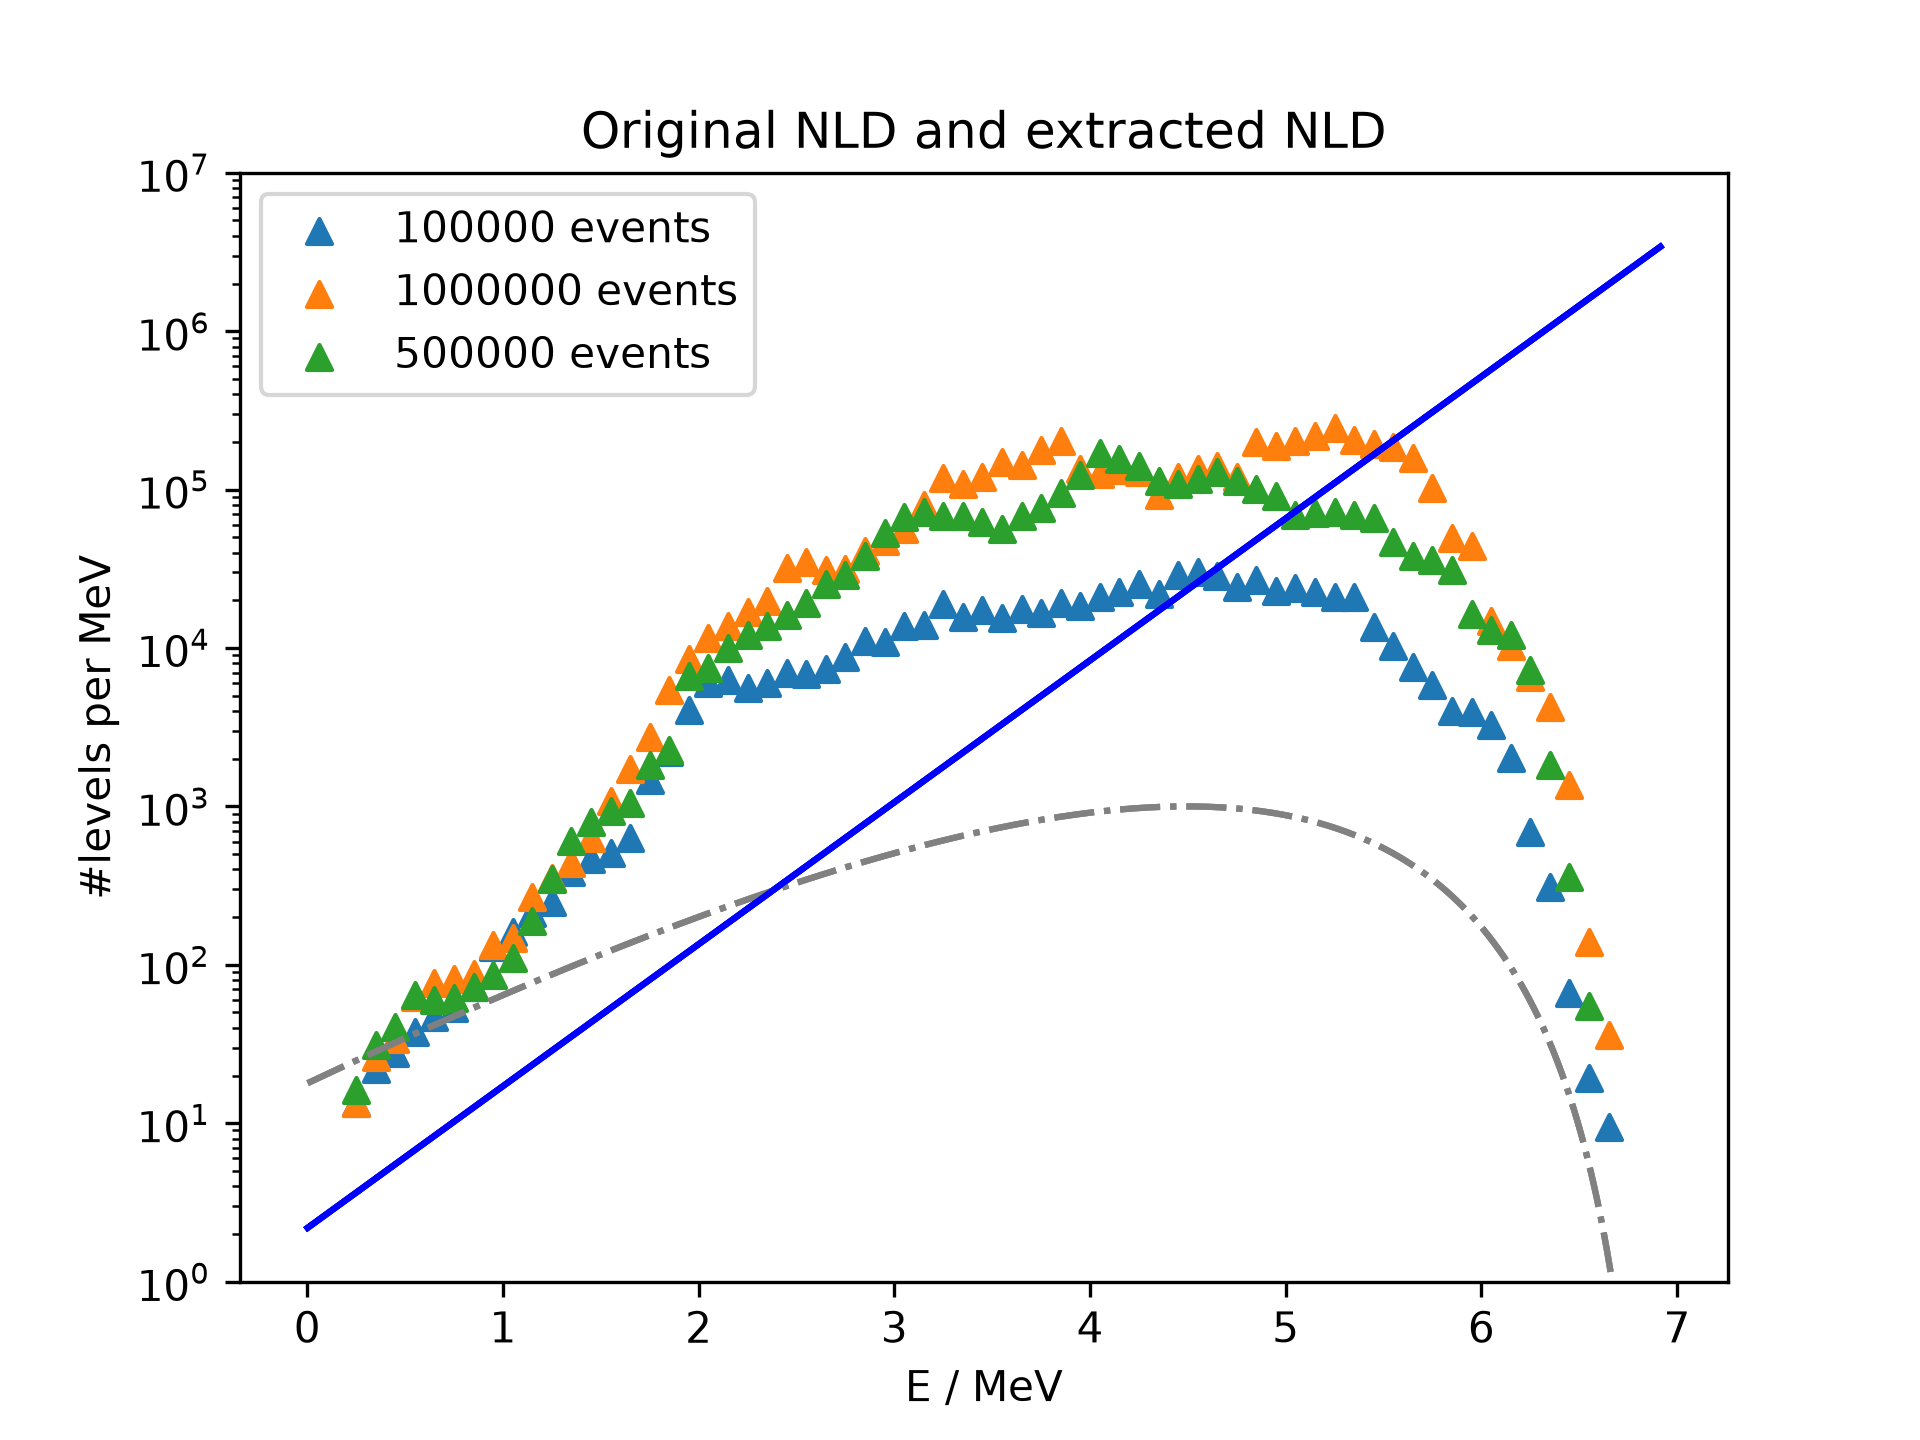
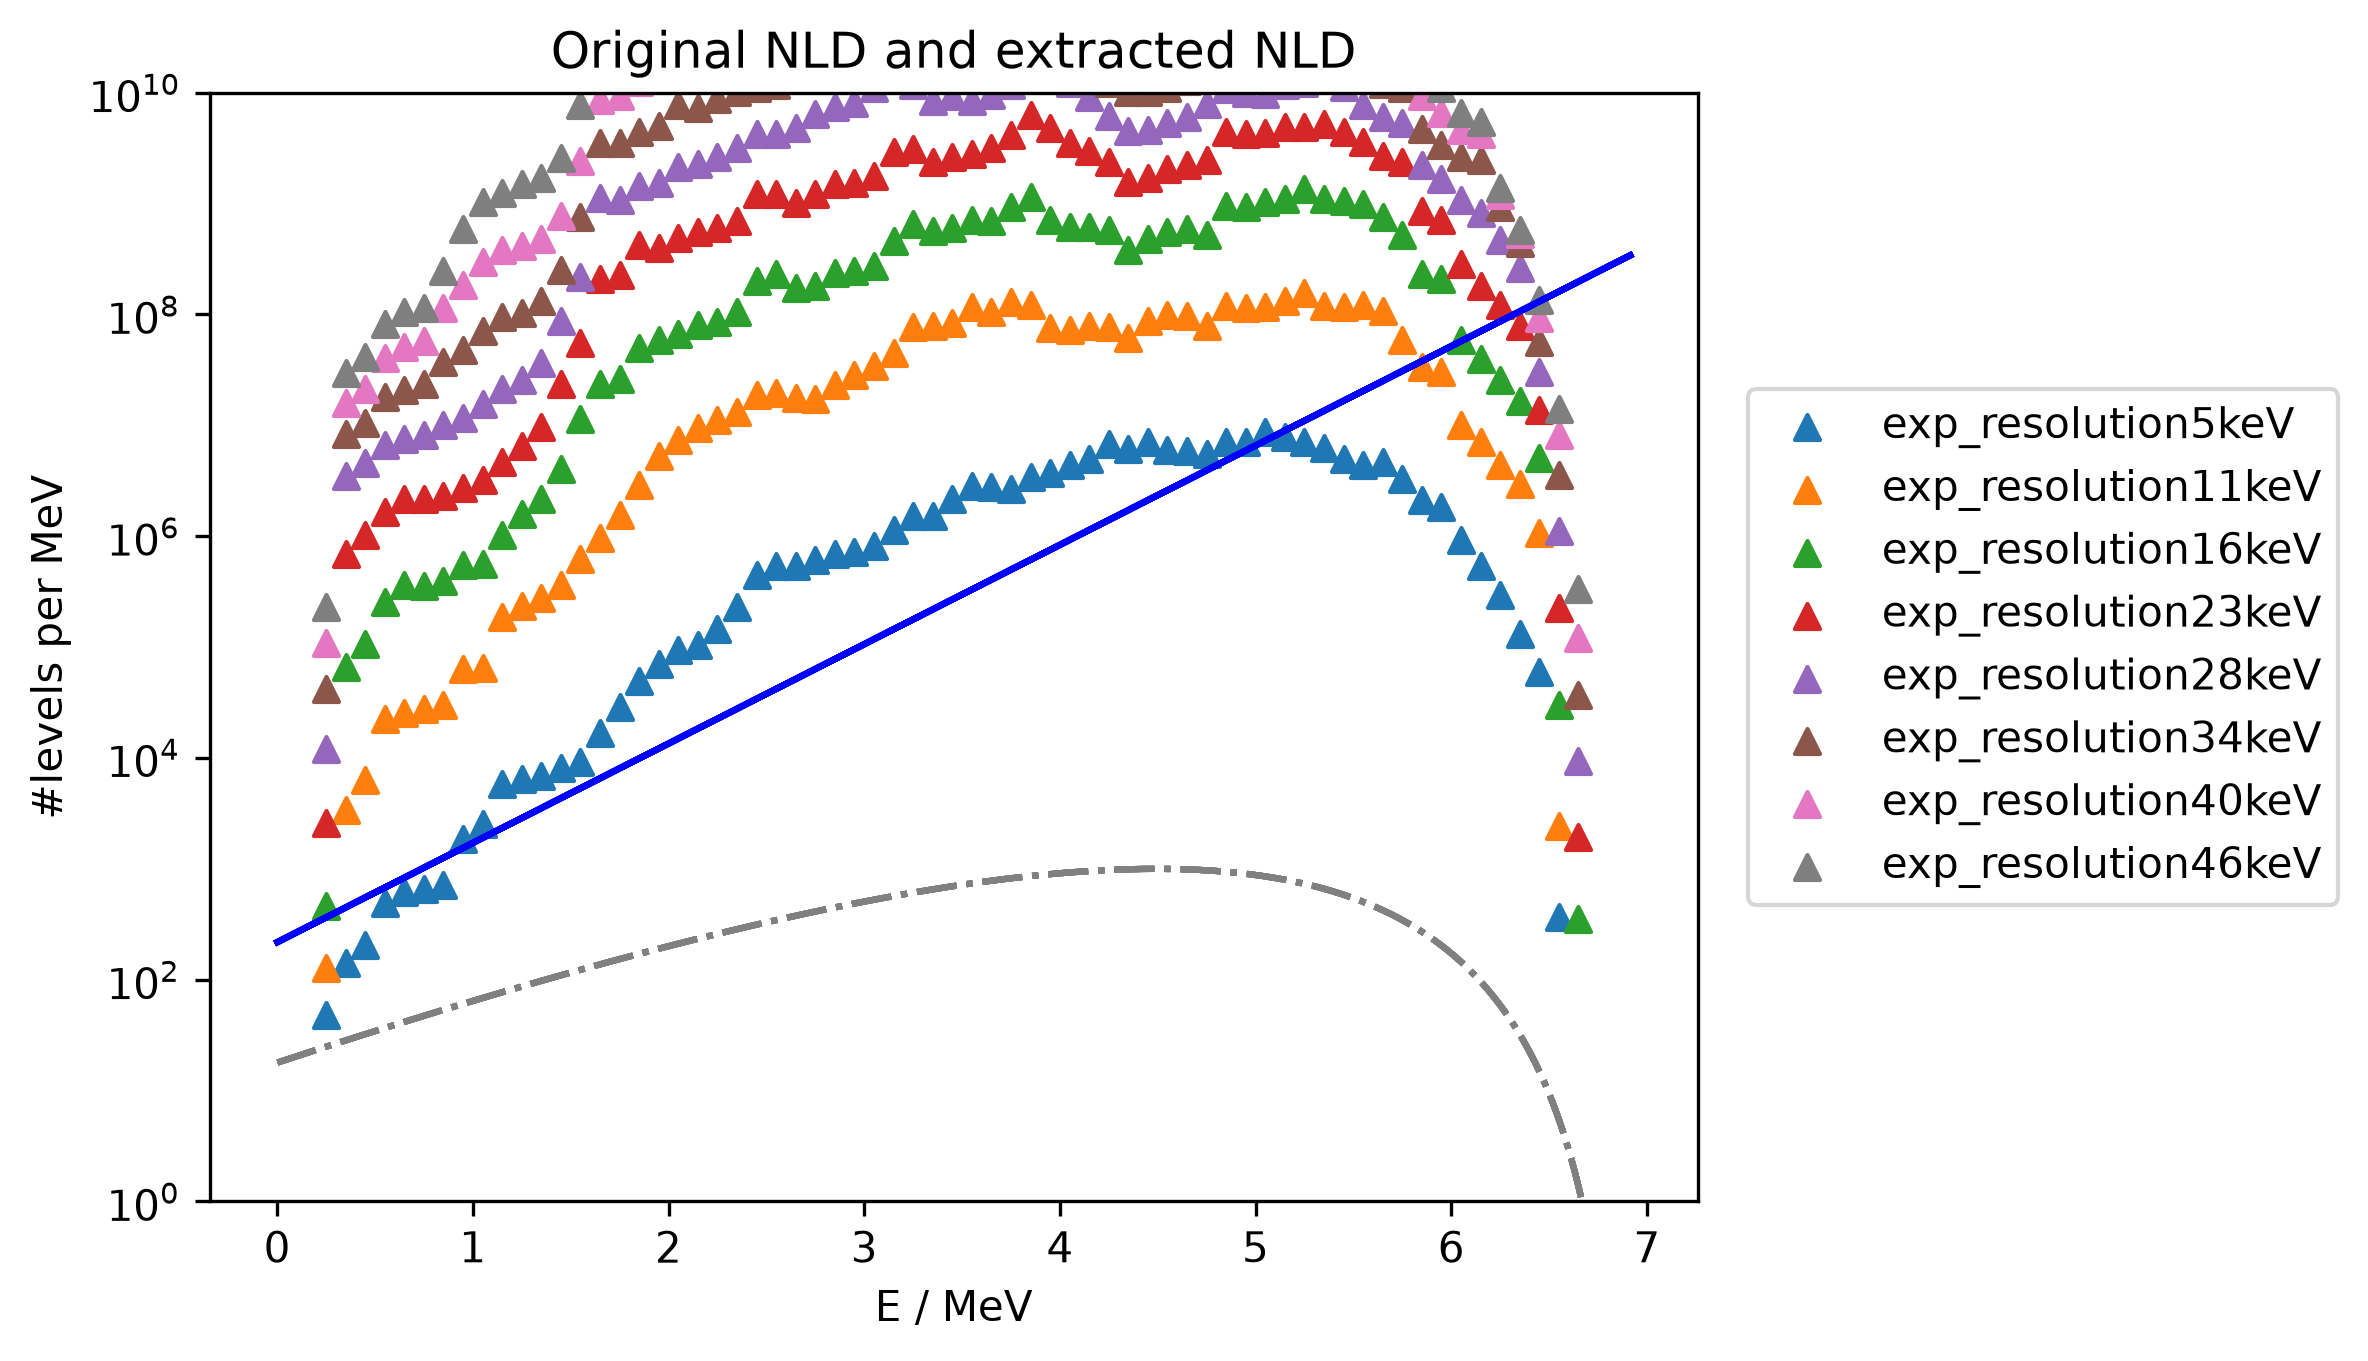
added analysis iterator

diff --git a/Analysis.py b/Analysis.py
@@ -40,12 +40,9 @@ class FluctuationAnalysisPlot:
             fluct_data: list,
             *,
             show_full: bool = False,
-            run: Run = None
+            run: Run = None,
+            label: str = ""
             ) -> None:
-        if run is not None:
-            label = str(int(run.settings[Setting.g_nEvent]))+" events"
-        else:
-            label = ""
         plt.step(energy, fluct_data, lw=self.linewidth, label=label)
         if run is not None:
             energy, data = extract.get_fluct_data(run)
@@ -65,12 +62,9 @@ class FluctuationAnalysisPlot:
             fine: list,
             rough: list,
             *,
-            run: Run = None
+            run: Run = None,
+            label: str = ""
             ) -> None:
-        if run is not None:
-            label = str(int(run.settings[Setting.g_nEvent]))+" events"
-        else:
-            label = ""
         plt.plot(energy, fluct_data, label=label)
         plt.plot(energy, fine)
         plt.plot(energy, rough)
@@ -84,16 +78,13 @@ class FluctuationAnalysisPlot:
             energy: list,
             stationary: list,
             *,
-            run: Run = None
+            run: Run = None,
+            label: str = ""
             ) -> None:
         plt.xlabel("E in MeV")
         plt.ylabel("'relative fluctuations'")
         plt.title("Stationary spectrum")
         plt.ylim(0.5,1.5)
-        if run is not None:
-            label = str(int(run.settings[Setting.g_nEvent]))+" events"
-        else:
-            label = ""
         plt.plot(energy, stationary, label=label)
         plt.legend()
 
@@ -125,31 +116,24 @@ class FluctuationAnalysisPlot:
             data_energy: list,
             *,
             run: Run = None,
-            name: str = ""
+            label: str = ""
             ) -> None:
-        if run is not None:
-            label = str(int(run.settings[Setting.g_nEvent]))+" events"
-        else:
-            label = ""
         self.pop_dist_comp(run, data_energy, nld)
-        plt.plot(data_energy, [func.rho(e) for e in data_energy], color="blue")
-        plt.ylim(1,1e7)
+        plt.plot(data_energy, [func.rho(e) * 10*10 for e in data_energy], color="blue")
         plt.scatter(energy_range, nld, marker="^", label=label)
-        plt.legend()
+        plt.ylim(1,1e10)
+        plt.legend(loc="center left",bbox_to_anchor=(1.02, 0.5))
         plt.yscale("log")
         plt.title("Original NLD and extracted NLD")
         plt.xlabel("E / MeV")
         plt.ylabel("#levels per MeV")
-
-    
-        
 
     def helper_seriesplot(
             self,
             fa: FluctuationAnalysisResult,
             fa_step: FaStep,
             *,
-            file_name: str = "unnamed_fluc_ana",
+            label: str = "no label",
             run: Run = None
             ) -> None:
         fluct_energy = fa.fluct_energy
@@ -161,15 +145,15 @@ class FluctuationAnalysisPlot:
         extract_nld = fa.nld
         match fa_step:
             case FaStep.fluct:
-                self.fluct_data(fluct_energy, fluct_data, run=run)
+                self.fluct_data(fluct_energy, fluct_data, run=run, label=label)
             case FaStep.smoothing:
-                self.smooth(fluct_energy, fluct_data, fine, rough, run=run)
+                self.smooth(fluct_energy, fluct_data, fine, rough, run=run, label=label)
             case FaStep.stationary:
-                self.stationary(fluct_energy, stationary, run=run)
+                self.stationary(fluct_energy, stationary, run=run, label=label)
             case FaStep.autocorr:
                 pass
             case FaStep.comparison:
-                self.comparison(energy_range, extract_nld, fluct_energy, run=run)
+                self.comparison(energy_range, extract_nld, fluct_energy, run=run, label=label)
 
     def init_folders(self) -> None:
         (Settings.std_path/Settings.folder_fluct_name).mkdir(exist_ok=True, parents=True)
@@ -181,32 +165,89 @@ class FluctuationAnalysisPlot:
     def create(
         self,
         runs: list[Run],
+        iter_setting: Setting,
         *,
-        exp_res: float = 0.0,
         figsize: tuple[float, float] = None,
         ) -> None:
         self.init_folders()
-        fa_list = []
-        for run in runs:
-            fa = fluc.fluctuation_analysis(run, exp_res = exp_res)
+        run_fa = [fluc.fluctuation_analysis(run) for run in runs]
+        for k in range(len(runs)):
+            run = runs[k]
+            fa = run_fa[k]
             for step in FaStep:
                 plt.figure()
-                self.helper_seriesplot(fa, step, file_name=str(int(run.settings[Setting.g_nEvent])), run=run)
-                plt.savefig(Settings.std_path / FluctuationAnalysis.fa_step_to_folder_name[step] / (str(int(run.settings[Setting.g_nEvent]))+".png"), dpi = 300)
+                self.helper_seriesplot(fa, step, file_name=str(int(run.settings[iter_setting])), run=run)
+                plt.savefig(
+                    Settings.std_path / FluctuationAnalysis.fa_step_to_folder_name[step] / (str(int(run.settings[Setting.g_nEvent]))+".png"),
+                    dpi = 300,
+                    bbox_inches = "tight")
                 plt.close()
+        if len(runs) > 1:
+            for step in FaStep:
+                plt.figure()
+                for k in range(len(runs)):
+                    run = runs[k]
+                    fa = run_fa[k]
+                    self.helper_seriesplot(fa, step, file_name="combined", run=run)
+                plt.savefig(
+                    Settings.std_path / FluctuationAnalysis.fa_step_to_folder_name[step] / ("combined"+".png"),
+                    dpi = 300,
+                    bbox_inches = "tight")
+                plt.close()
+
+    def from_val_get_valid_file_name(self, val: float):
+        pass
+
+    def label(self, iter_setting: Setting, value: Any):
+        if isinstance(value, int):
+            modified = value
+        elif isinstance(value, float):
+            modified = str(int(value*1e3))+"keV"
+        else:
+            print("cant find label for that value type")
+        return iter_setting.name+modified
+
+    def iter_analysis_param(
+            self,
+            run: Run,
+            iter_setting: Setting,
+            iter_range: list,
+            *,
+            plot_single: bool = False
+            ) -> None:
+        self.init_folders()
+        if plot_single:
+            for param in iter_range:
+                param0 = parameter[iter_setting]
+                parameter[iter_setting] = param
+                fa = fluc.fluctuation_analysis(run)
+                for step in FaStep:
+                    plt.figure()
+                    self.helper_seriesplot(fa, step, label=self.label(iter_setting,param), run=run)
+                    plt.savefig(
+                        Settings.std_path / FluctuationAnalysis.fa_step_to_folder_name[step] / (self.label(iter_setting,param)+".png"),
+                        dpi = 300,
+                        bbox_inches = "tight")
+                    plt.close()
+                parameter[iter_setting] = param0
         for step in FaStep:
             plt.figure()
-            for run in runs:
-                fa = fluc.fluctuation_analysis(run, exp_res = exp_res)
-                self.helper_seriesplot(fa, step, file_name="combined", run=run)
-            plt.savefig(Settings.std_path / FluctuationAnalysis.fa_step_to_folder_name[step] / ("combined"+".png"), dpi = 300)
+            for param in iter_range:
+                param0 = parameter[iter_setting]
+                parameter[iter_setting] = param
+                fa = fluc.fluctuation_analysis(run)
+                self.helper_seriesplot(fa, step, label=self.label(iter_setting,param), run=run)
+                parameter[iter_setting] = param0
+            plt.savefig(
+                Settings.std_path / FluctuationAnalysis.fa_step_to_folder_name[step] / ("combined"+".png"),
+                dpi = 300,
+                bbox_inches = "tight")
             plt.close()
 
     def create_by_fa(
             self,
-            fa: FluctuationAnalysisResult | list[FluctuationAnalysisResult],
+            fa: list[FluctuationAnalysisResult],
             *,
-            file_name: str = "unnamed_fluc_ana",
             figsize: tuple[float, float] = None,
             run: Run | list[Run] = None
             ) -> None:
@@ -284,19 +325,12 @@ class FluctuationAnalysis:
     def fluctuation_analysis(
         self,
         energy: list,
-        fluct_data: list,
-        *,
-        exp_res: float = 0
+        fluct_data: list
         ) -> FluctuationAnalysisResult:
 
         bin_width = self.get_energy_width(energy)
-        # if exp_res == 0:
-        #     sigma_fine = 0.001
-        # else:
-        #     sigma_fine = exp_res/2
-        # sigma_rough = 3*sigma_fine
-        sigma_fine = 0.005
-        sigma_rough = 0.03
+        sigma_fine = 0.003
+        sigma_rough = 0.005
 
         fine, rough = self.get_smooth(fluct_data, bin_width, sigma_fine, sigma_rough)
         stationary = fine/rough
@@ -317,10 +351,9 @@ class FluctuationAnalysis:
     def _(
         self,
         run: Run,
-        *,
-        exp_res: float = 0):
-        energy, smeared_data = extract.spectrum_smeared(run,plot=False,exp_res=exp_res)
-        return self.fluctuation_analysis(energy, smeared_data,exp_res=exp_res)
+        ):
+        energy, smeared_data = extract.spectrum_smeared(run,plot=False,exp_res=parameter[Setting.exp_resolution])
+        return self.fluctuation_analysis(energy, smeared_data)
 
     def iterate(self, energy, fluct_data, nld_energy, nld, param, param_range):
         param0 = parameter[param]

diff --git a/Settings.py b/Settings.py
@@ -97,7 +97,7 @@ class SettingsClass:
             #NLD.CTM_dE0 : -1.31817,
             #NLD.BSFG_g_dE1 : 0.968,
 
-            Setting.exp_resolution : 0.05,
+            Setting.exp_resolution : 0.004,
 
             Setting.exci_mode : EXCI.full_rxn,
 
